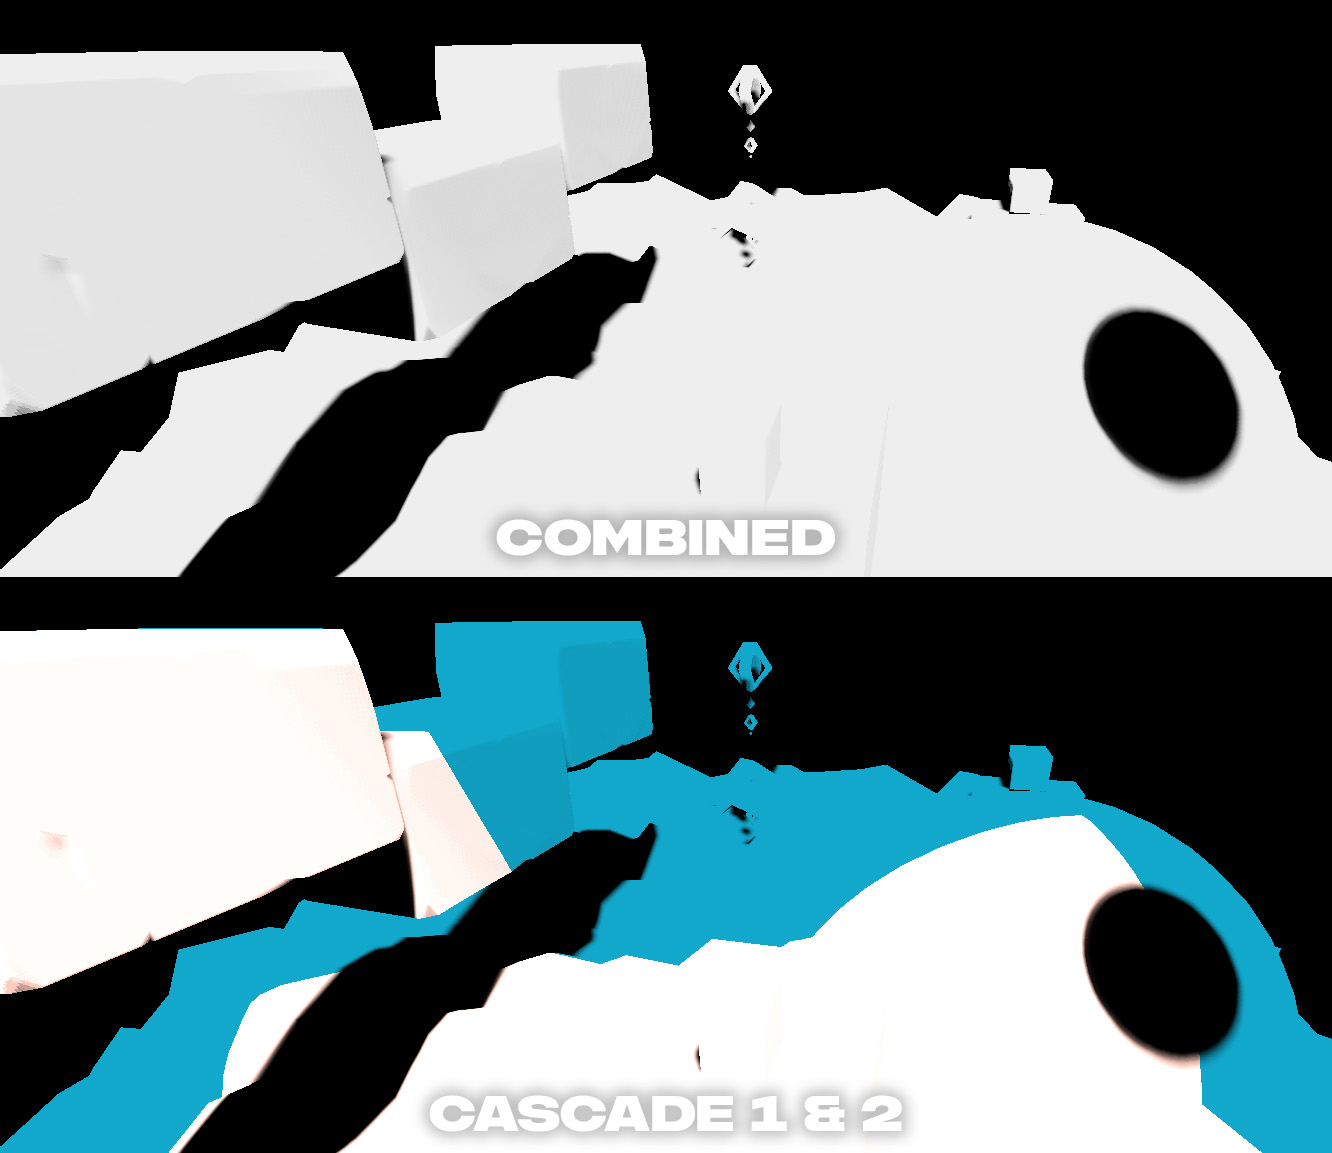
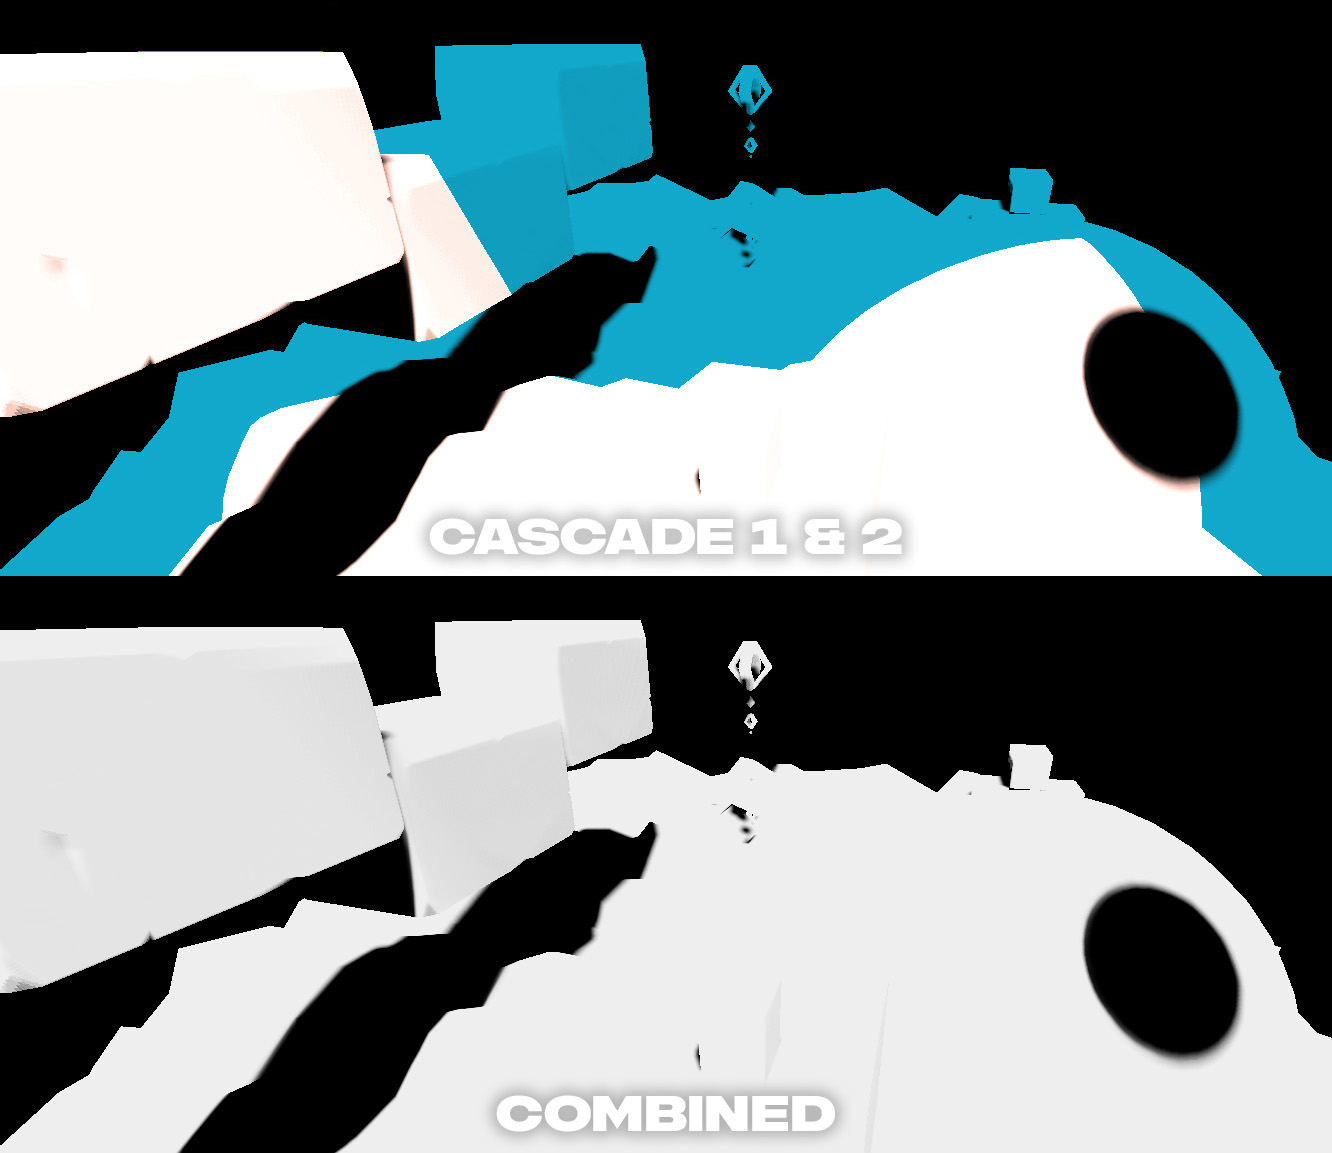
Adding post about cascaded shadow maps

diff --git a/index.html b/index.html
@@ -28,33 +28,76 @@
 
   <entry class="blue">
     <img class="header" src="assets/img/cascade0.jpg" />
-    <h2>Cascaded Shadow Map Blending</h2>
-    <img src="assets/img/cascade1.jpg" />
+    <h2>Cascaded Shadow Maps</h2>
+    <p>Rendering sun shadows usually compes with a bit of a trade-off: As texture-resolution is limited, shadows may either be high quality, but fade out very quickly, or they fade our much futher away, but are much less detailed.</p>
+    <p>As a solution to this conundrum, which stays within the traditional rendering pipeline, we can simply render the world from multiple increasingly large orthographic views (biased towards the look direction). This results in having a view with high quality shadows for close-up detail, but also far-reaching shadow map coverage (with lesser quality where it matters less).</p>
+    <img class="small" src="assets/img/cascade1.jpg" />
+    <p>When applying the shadows to our scene, we can simply iterate through the list of our so-called cascades, until we end up in-bounds of the light matrix. This is handled as usual, we simply project the world-space position of our fragment to the view-projection matrix of the corresponding shadow-map and end up with a view-space coordinate into the associated texture.</p>
+    <p>In order to obscur the transitions between the different shadow-maps, we can employ a simple edge-fade, smoothly transitioning from one cascade to another.</p>
+    <code>
+for (; layer < 4; layer++)
+<br/>{
+<br/>&ensp;&ensp;// decoupled matrices, otherwise `lightSpacePos` can be calculated from the previous one
+<br/>&ensp;&ensp;mat4x4 lightVP = lights[lightIdx + layer].vp;
+<br/>&ensp;&ensp;
+<br/>&ensp;&ensp;vec4 lightSpacePos = lightVP * vec4(worldPosition, 1); // world position in light space
+<br/>&ensp;&ensp;//lightSpacePos /= lightSpacePos.w; // not needed, orthographic!
+<br/>&ensp;&ensp;
+<br/>&ensp;&ensp;float maxPos = max(abs(lightSpacePos.x), abs(lightSpacePos.y));
+<br/>&ensp;&ensp;if (absMaxPos < 1) // if not out of bounds: stop!
+<br/>&ensp;&ensp;&ensp;&ensp;break;
+<br/>}
+</code>
   </entry>
 
   <entry class="blue">
     <img class="header" src="assets/img/occc_abstract.png" />
     <h2>Renderer Architecture: Occlusion Culling</h2>
+    <p>As we're generating multi-draw-indirect-buffer for rendered chunks from a compute shader, we'd like to reduce the number of objects being rendered to only consist of what's actually visible on screen.</p>
+    <p>One such approach is Frustum Culling - a simple technique, which attempts to reject objects behind or next to the View Frustum. It's fairly cheap and easy to implement - simply requiring a bounding box to be projected to the screen, but it's also inherently limited, as it can't combat overdraw.</p>
+    <code>
+struct gpu_lod_obj_info
+<br/>{
+<br/>&ensp;&ensp;gpu_lod_info lods[MaxLodCount]; // vertex, index buffer offsets, index count, request counts per LOD
+<br/>&ensp;&ensp;vec3f maxBoundingVolume; // maximum dimensions of all LODs
+<br/>&ensp;&ensp;uint32_t validLodMask; // bitmask of lods available to be loaded
+<br/>&ensp;&ensp;vec3f centerOffset; // combines with `maxBoundingVolume` to a bounding box of all LODs
+<br/>};
+</code>
+    <p>A more intricate and powerful technique is called Occlusion Culling. Here, we attempt to compare the depth of the projected object or bounding box against a reprojected depth buffer from the previous frame (which may additionally include some static close objects being re-rendered on top, to combat gaps in the reprojected depth buffer).</p>
+    <p>To make those lookups cheaper, we can construct a mip-chain from the depth buffer, which contains both the minimum and maximum depth value of the represented depth-buffer values (as a best- &amp; worst-case depth). To make using this mip-chain simpler, we can simply restrict it to the highest power of two in x and y below the depth buffer resolution.</p>
     <img src="assets/img/occc0.png" style="image-rendering: pixelated;" />
+    <p>Now, with the help of this depth buffer, we can simply check if the worst case depth of our object - so the closest it could possibly be, derived from its bounding box - <b>can</b> even occupy a certain area on screen (as opposed to being behind some other static object from the reprojected depth).</p>
+    <p>If our object's worst-case depth lands between the minimum and maximum depth represented by a certain mip texel <b>and</b> is at the edge of the bounding box, we can recursively check if the data stored in the underlying mip's texels makes this decision more obvious. Otherwise, we have to drwa the object on screen.</p>
+    <img src="assets/img/occc1.png">
   </entry>
 
   <entry class="blue">
     <h2>Renderer Architecture: Objects & LODs</h2>
+    <p>To achieve fully GPU driven render object streaming and for some significant throughput advancements, we'd only like to stream full chunks of static render objects to the GPU as a simple list of render object instances to generate a lodded multi-draw-indirect-buffer.</p>
+    <p>New chunks are simply supplied to the renderer as a list of such render object descriptors (position, rotation, scale). As the Render Objects needs to be able to look up information about the render objects, which is shared between multiple instances, which should be simple indices on the GPU side, we allocate space for each distinct render object into a pool of Render Object Information.</p>
+    <code>
+struct render_object_instance
+<br/>{
+<br/>&ensp;&ensp;uint32_t id; // renderer turns this into a pool idx
+<br/>&ensp;&ensp;vec3f pos, rotationAngles;
+<br/>&ensp;&ensp;float scale;
+<br/>};
+    </code>
+    <p>Now, for every chunk the compute shader which generates the multi-draw-indirect-buffer is called once, with the offset and size of the corresponding list of render objects.</p>
+    <p>Here, we can now do all sorts of culling operations and determine the correct LOD to be used for this drwa-call.</p>
+    <h3>GPU driven LOD streaming</h3>
+    <p>So far, we've simply assumed, that all LODs have been loaded and are available to the compute shader. However, we most likely don't even wanna stream in all of those LODs - at least in most cases.</p>
+    <p>By simply adding a <mono>requestCount</mono> to our Render Object Information for each object, we can simply atomically increment (can also be weighted by imporance / size) whenever an LOD is being requested or drawn.</p>
+    <p>After each frame the CPU-side iterates over the occupied slots of the pool, finds the missing LODs with the most requests and forwards it to the asset-streaming subsystem, which will asynchronously read, prepare and upload the LOD's mesh data to the GPU. Prioritization is handled via the <mono>requestCount</mono>.</p>
+    <p>As even loaded LODs are marked this way, the <b>unloading</b> of LODs can be handled in a similar fashion. Obviously, the <mono>requestCount</mono> needs to be reset after every frame.</p>
     <code>
 struct gpu_lod_info
 <br/>{
-<br/>&ensp;&ensp;uint32_t vertexOffset; // offset into vertex mega-buffer
-<br/>&ensp;&ensp;uint32_t indexOffset; // offset into index mega-buffer
-<br/>&ensp;&ensp;uint32_t indexCount; // number of indices. 0: not loaded
-<br/>&ensp;&ensp;uint32_t requestedCount; // render requests per frame (= load priority)
-<br/>};
-<br/>
-<br/>struct gpu_lod_obj_info
-<br/>{
-<br/>&ensp;&ensp;gpu_lod_info lods[MaxLodCount];
-<br/>&ensp;&ensp;vec3f maxBoundingVolume; // maximum dimensions of all LODs
-<br/>&ensp;&ensp;uint32_t validLodMask; // bitmask of lods available to be loaded
-<br/>&ensp;&ensp;vec3f centerOffset; // combines with `maxBoundingVolume` to a bounding box of all LODs
+<br/>&ensp;&ensp;uint32_t vertexOffset; // offset into the vertex mega-buffer.
+<br/>&ensp;&ensp;uint32_t indexOffset; // offset into the index mega-buffer.
+<br/>&ensp;&ensp;uint32_t indexCount; // number of indices to be drawn; 0: not loaded.
+<br/>&ensp;&ensp;uint32_t requestedCount; // number of draw requests during the last frame.
 <br/>};
     </code>
   </entry>
@@ -76,7 +119,7 @@ struct gpu_lod_info
     <p>Lastly, leaves obviously have varying depth & density from the various veins passing through the leaf - even though we're simply representing the leaf with a bunch of flat planes. When viewing the leaf from the backside, we can derive our coloring based on this subsurface density and if the backside is being lit, alter the color of the light passing through the leaf to be darkened by the subsurface map.</p>
     <img class="small" src="assets/img/plant2.jpg" />
     <br/>
-    <h3>(Bi-)Tangent Generation</h3>
+    <h3>Shader-Level (Bi-)Tangent Vector Calculation</h3>
     <p>Going on a slight tangent (😉), in order to apply normal maps to our vertex normals, we need tangent and bitangent vectors for our normal. These are commonly precalculated and stored alongside the other vertex data, but - as they can simply be calculated from the texture coordinate & world position of a mesh - they can also be calculated in a shader.</p>
     <h4>Geometry Shader (Bi-)Tangent Generation</h4>
     <p>As the tangent & bitangent vectors are identical within each triangle, they can simply be generated in a geometry shader from the world position and texture coordinates as follows.</p>
